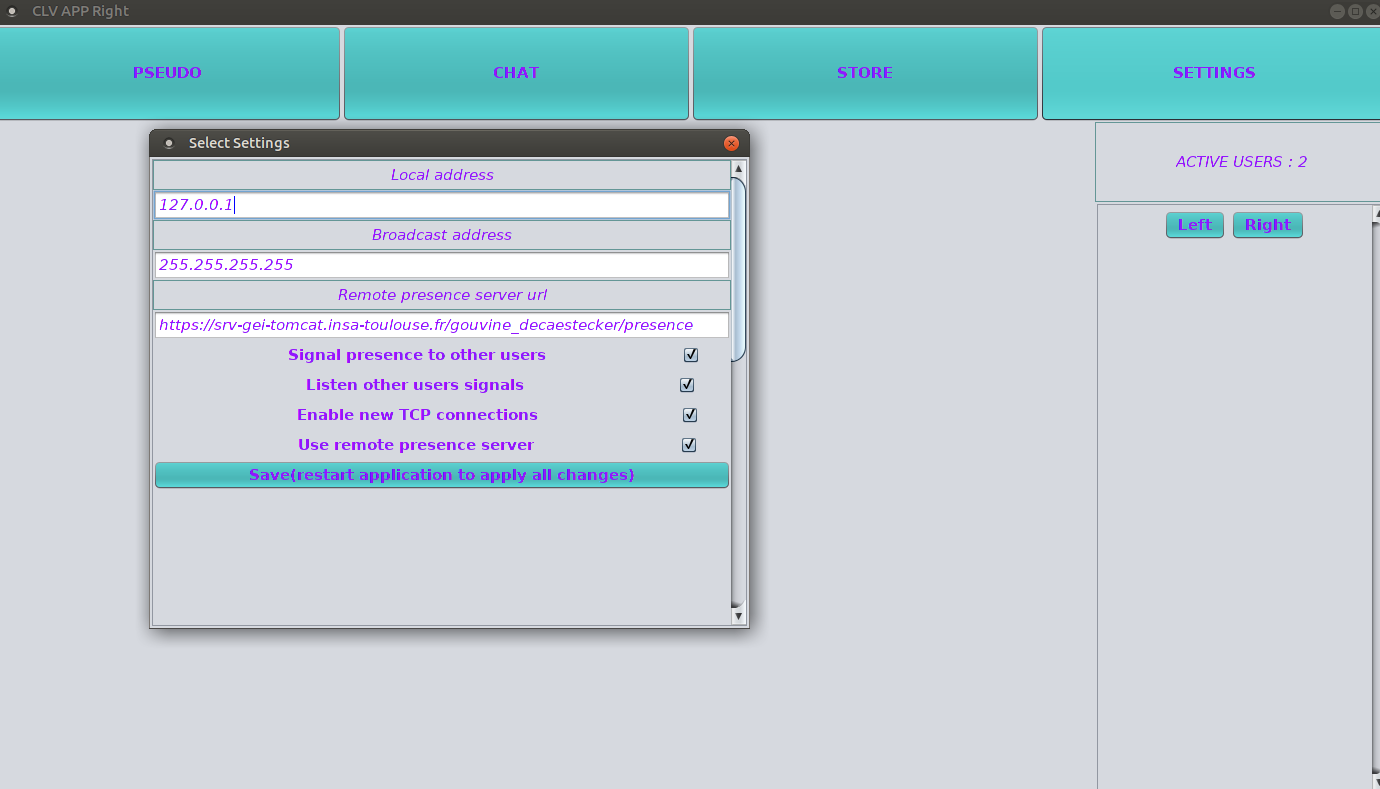
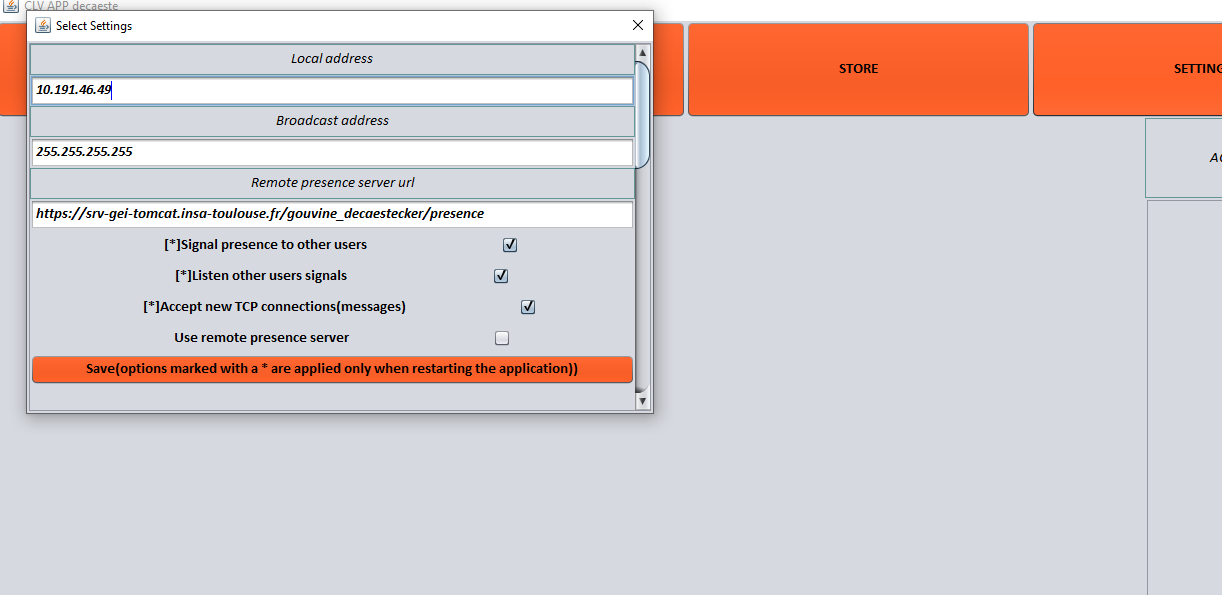
Modified logs of installer, udpated readme.md

diff --git a/ProjectPOO/src/org/clav/config/Installer.java b/ProjectPOO/src/org/clav/config/Installer.java
@@ -20,22 +20,22 @@ public class Installer {
 			System.out.println("Config OK") ;
 		}
 		else {
-			System.out.println("Config Not OK") ;
-			Scanner in = new Scanner(System.in);
+			System.out.println("No configuration file ObjConfig.ser found") ;
 			createDefaultConfig() ;
-			System.out.println("Config created");
+			System.out.println("Default config applied");
 		}
 		if (db.exists()) {
 			System.out.println("DB OK") ;
 		}
 		else {
-			System.out.println("DB Not OK") ;
+			System.out.println("No database found") ;
 			createDB() ;
-			System.out.println("DB created");
+			System.out.println("Database created");
 		}
 	}
 	
 	private void createDB() {
+		System.out.println("Installing database, please wait...");
 		try {
 			Class.forName("org.hsqldb.jdbc.JDBCDriver");
 			Connection con = DriverManager.getConnection("jdbc:hsqldb:file:db/mydb", "SA", "") ;
@@ -54,6 +54,7 @@ public class Installer {
 	
 	private void createDefaultConfig() {
 		Config config;
+		System.out.println("Creating default configuration, please wait...");
 		try {
 			config = new Config( InetAddress.getLocalHost() ,InetAddress.getByName("255.255.255.255"), NetworkConstants.GEI_SERVER_URL, true, true, true, false);
 			config.save() ;

diff --git a/ProjectPOO/src/org/clav/ui/components/SettingPanel.java b/ProjectPOO/src/org/clav/ui/components/SettingPanel.java
@@ -33,7 +33,7 @@ public class SettingPanel extends JPanel {
 
 		this.add(componentFactory.createLabel("Remote presence server url"));
 		this.add(serverUrlField = componentFactory.createTextField(config.getServerUrl()));
-		udpSignalBox = componentFactory.createLabeledTickBox(new JLabel("Signal presence to other users",SwingConstants.CENTER));
+		udpSignalBox = componentFactory.createLabeledTickBox(new JLabel("[*]Signal presence to other users",SwingConstants.CENTER));
 		udpSignalBox.getCheckBox().setSelected(config.isAutoSignalUDP()) ;
 		this.add(udpSignalBox) ;
 		

diff --git a/ProjectPOO/src/org/clav/ui/components/LabeledTickBox.java b/ProjectPOO/src/org/clav/ui/components/LabeledTickBox.java
@@ -12,13 +12,13 @@ public class LabeledTickBox extends JPanel {
 		gbc.gridx=0;
 		gbc.gridy=0;
 		gbc.weighty = 1;
-		gbc.weightx = 0.9;
+		gbc.weightx = 0.7;
 		gbc.fill = GridBagConstraints.BOTH;
 		this.checkBox = new JCheckBox();
 		this.label = label;
 		this.add(this.label,gbc);
 		gbc.gridx = 1;
-		gbc.weightx = 0.1;
+		gbc.weightx = 0.3;
 		this.add(this.checkBox,gbc);
 	}
 

diff --git a/ProjectPOO/src/org/clav/config/ConfigManager.java b/ProjectPOO/src/org/clav/config/ConfigManager.java
@@ -80,6 +80,7 @@ public class ConfigManager {
 	private User identification(boolean cmdLine){
 		String userId;
 		String userPseudo;
+		System.out.println("Please wait...");
 		if(cmdLine){
 			Scanner in = new Scanner(System.in);
 			System.out.println("Enter your unique identifier. It should have been given to you by the company and it is NOT your pseudo");

diff --git a/ProjectPOO/README.md b/ProjectPOO/README.md
@@ -9,9 +9,10 @@
 * `lib` : jar des librairies hsql, junit, et javafx utilisées
 * `distribution` : une archive jar exécutable de l'application et deux dossier win et lin contenant la même archive agrémentée d'un launcher
 * `capture` : captures d'écran de l'application, voire la section **Utilisation de l'application** ci -dessous
+
 ## Exécuter l'application
 * Télécharger le contenu du dossier distribution/(`win` pour Windows, `lin` pour Linux, uniquement l'archive jar pour d'autres systèmes).
-* Executer le fichier launcher ou bien entrer la commande `java -jar ProtoConfig.jar`
+* Executer le fichier launcher, par exemple via un double clic leste fluide et précis, ou bien entrer la commande `java -jar CLVApp.jar`
 
 ## Déployer le serveur de présence
 * Utiliser la fonction déployer du serveur tomcat en utilisant l'archive `web/gouvine_decaestecker.war`
@@ -32,8 +33,18 @@
 
 ## Utilisation de l'application
 
-Au lancement, une fenêtre s'ouvre pour saisir son identifiant
+* Au lancement, une fenêtre s'ouvre pour saisir son identifiant
 ![id_prompt](capture/id_prompt.PNG)
-La fenêtre principale de l'application s'ouvre ensuite
+* Puis une seconde fenêtre s'ouvre pour saisir un pseudo
+![pseudo_prompt](capture/pseudo_prompt.PNG)
+* La fenêtre principale de l'application s'ouvre ensuite
 ![atstart_legende](capture/atstart_legende.png)
+* Cliquer sur un pseudo dans la liste des utilisateurs ouvre un chat avec ce dernier, il est également possible d'initier un chat avec plusieurs utilsiateurs en utilisant le bouton CHAT en haut à gauche et en cochant les pseudos souhaités( **Ne pas se cocher soit même, l'utilisateur est inclu par défaut** )
+![chatinit](capture/chatinit.png)
+![chatinit_res](capture/chatinit_res.png)
+* Cliquer sur SETTINGS permet de régler certains paramètres, notamment l'addresse de broadcast et la connection avec le serveur de présence. Par exemple, on pourra utiliser l'addresse de broadcast localhost et activer le serveur de présence pour vérifier que la communication fonctionne même entre utilisateurs reliés uniquement par le serveur de présence. **Ne pas oublier de cliquer sur Save puis fermer le panneau de settings pour les appliquer.**
+![settings](capture/settings.png)
+* Cliquer sur PSEUDO permet...de changer son pseudo, en cas de conflit soit le changement sera imédiatement rejeté(si un utilisateur avec le même pseudo est dans la liste des utilisateurs actifs) soit une fenêtre demandant un nouveau pseudo s'ouvrira.
+![invalid_pseudo](capture/invalid_pseudo.png)
+* Cliquer sur STORE enregistre toutes les conversations courantes dans la base de données locale.
 
